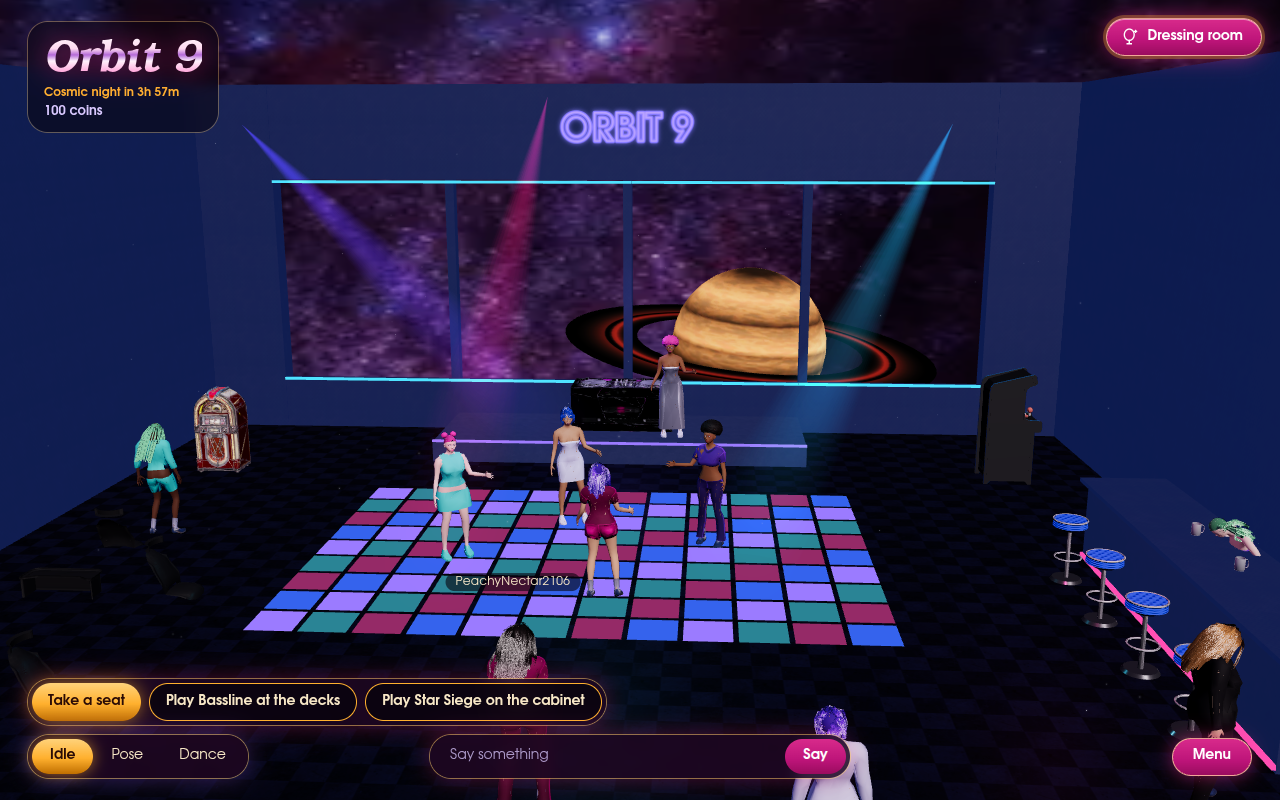
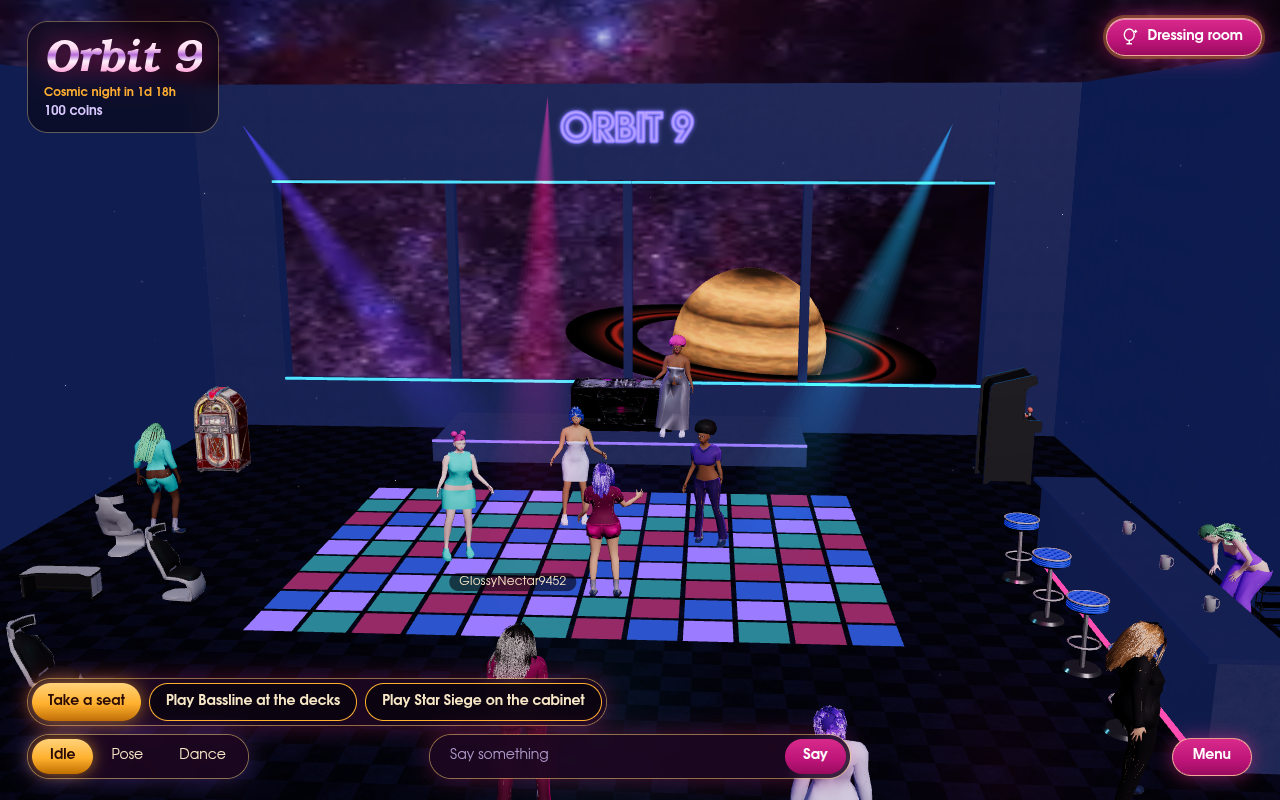
fix(orbit): the bartender works in an aisle behind the bar, not inside the counter

diff --git a/src/game/orbit.ts b/src/game/orbit.ts
@@ -25,8 +25,15 @@ export const STAGE = {
 export const DANCE: Vec2 = [0, -1.2];
 
 /** The soda bar along the east wall; its front at x = BAR.front. */
-export const BAR = { front: 6.5, back: 7.5, z0: -1.4, z1: 4 } as const;
-export const STOOL_X = 6.05;
+export const BAR = { front: 5.9, back: 6.6, z0: -1.4, z1: 4 } as const;
+export const STOOL_X = 5.45;
+/** The back shelf's front face, against the east wall. */
+export const SHELF_X = 7.5;
+/** Where the bartender works: the aisle between the bar and the shelf. */
+export const BARTENDER: Vec2 = [
+  (BAR.back + SHELF_X) / 2,
+  (BAR.z0 + BAR.z1) / 2 - 0.2,
+];
 export const STOOL_ZS: readonly number[] = [-0.6, 0.7, 2, 3.3];
 
 /** The lounge along the west wall: chairs round two low tables. */
@@ -76,7 +83,8 @@ export const FLOOR: readonly Vec2[] = box(
 );
 
 export const BLOCKERS: readonly (readonly Vec2[])[] = [
-  box(BAR.front, BAR.z0, BAR.back, BAR.z1),
+  // the bar and the aisle behind it, up to the shelf
+  box(BAR.front, BAR.z0, SHELF_X, BAR.z1),
   ...LOUNGE_TABLES.map(([x, z]) => box(x - 0.4, z - 0.4, x + 0.4, z + 0.4)),
   box(JUKEBOX[0] - 0.5, JUKEBOX[1] - 0.4, JUKEBOX[0] + 0.5, JUKEBOX[1] + 0.4),
   box(CABINET[0] - 0.5, CABINET[1] - 0.4, CABINET[0] + 0.5, CABINET[1] + 0.4),

diff --git a/src/game/orbit.test.ts b/src/game/orbit.test.ts
@@ -1,0 +1,25 @@
+import { test } from "node:test";
+import assert from "node:assert/strict";
+import { BAR, BARTENDER, BLOCKERS, SHELF_X, STOOL_X } from "./orbit.ts";
+
+test("the bartender stands in an aisle between the bar and the back shelf", () => {
+  const [x] = BARTENDER;
+  assert.ok(x - 0.25 > BAR.back, "clear of the counter");
+  assert.ok(x + 0.25 < SHELF_X, "clear of the shelf");
+  assert.ok(STOOL_X < BAR.front, "stools face the bar from the floor");
+});
+
+test("walkers can't wander into the bartender's aisle", () => {
+  const [x, z] = BARTENDER;
+  const inBox = (b: readonly (readonly [number, number])[]) => {
+    const xs = b.map((p) => p[0]);
+    const zs = b.map((p) => p[1]);
+    return (
+      x > Math.min(...xs) &&
+      x < Math.max(...xs) &&
+      z > Math.min(...zs) &&
+      z < Math.max(...zs)
+    );
+  };
+  assert.ok(BLOCKERS.some(inBox));
+});

diff --git a/src/client/rooms/orbit/Npcs.tsx b/src/client/rooms/orbit/Npcs.tsx
@@ -5,7 +5,13 @@
 import type { JSX } from "react";
 import type { DialogueContext } from "../../../game/dialogue/types.ts";
 import type { Look } from "../../../game/look.ts";
-import { BAR, DANCE, LOUNGE_CHAIRS, STAGE } from "../../../game/orbit.ts";
+import {
+  BAR,
+  BARTENDER,
+  DANCE,
+  LOUNGE_CHAIRS,
+  STAGE,
+} from "../../../game/orbit.ts";
 import { CrowdFigure } from "../shared/CrowdFigure.tsx";
 import { TalkingNpc } from "../shared/TalkingNpc.tsx";
 
@@ -170,7 +176,7 @@ export function OrbitNpcs({ onDrink }: { onDrink?: () => void }): JSX.Element {
         look={BARTENDER_LOOK}
         mood="dance"
         dance="bartending"
-        at={[BAR.back + 0.05 - 0.45, 0, (BAR.z0 + BAR.z1) / 2 - 0.2]}
+        at={[BARTENDER[0], 0, BARTENDER[1]]}
         rot={-Math.PI / 2}
         seed={192}
         situation="action-ordering"

diff --git a/src/client/rooms/Orbit.tsx b/src/client/rooms/Orbit.tsx
@@ -12,6 +12,7 @@ import * as THREE from "three";
 import { ROOMS } from "../../game/rooms.ts";
 import {
   BAR,
+  SHELF_X,
   CABINET,
   DANCE,
   JUKEBOX,
@@ -283,7 +284,7 @@ function Bar() {
           width={0.5}
           depth={4.4}
           height={2.6}
-          position={[BAR.back + 0.2, 0, cz]}
+          position={[SHELF_X + 0.25, 0, cz]}
         />
         {[-0.5, 0.6, 1.7].map((dz) => (
           <Prop
